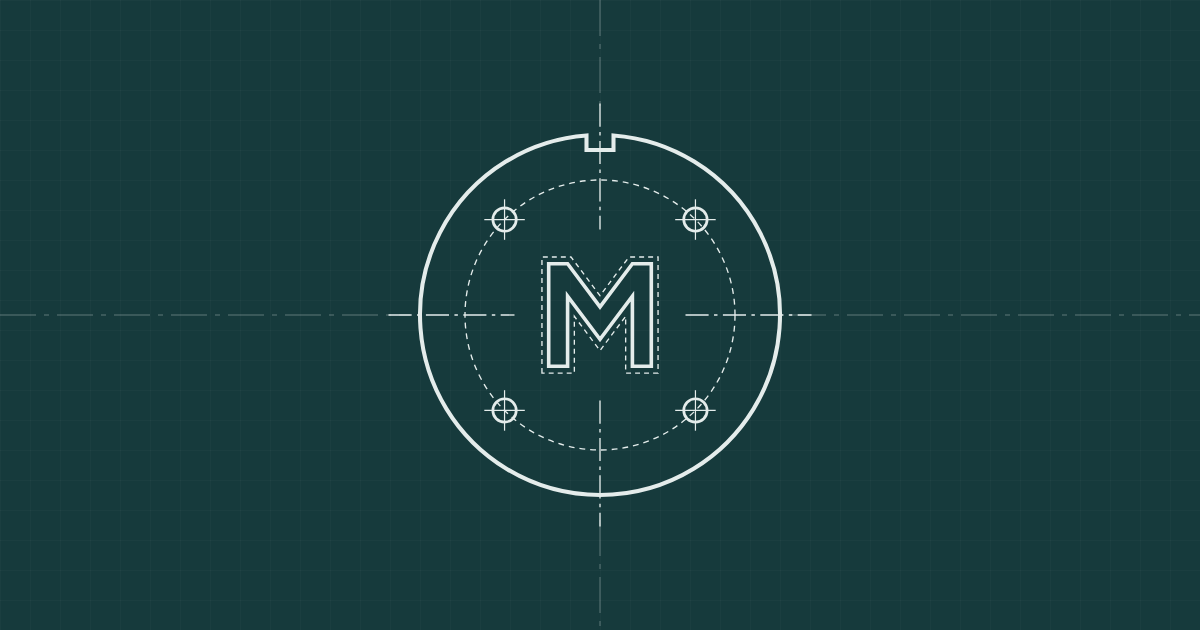
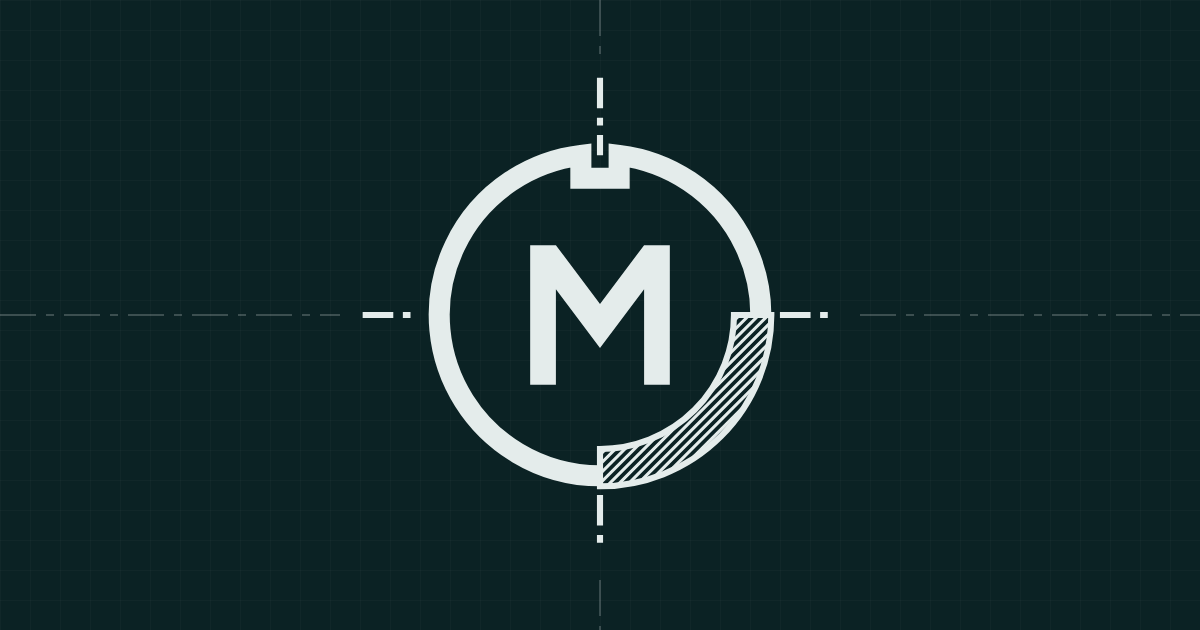
Add files via upload

Changed region(s): [[0.2775, 0.2111, 0.7092, 0.8444], [0.4933, 0.1206, 0.5242, 0.181]]

diff --git a/index.html b/index.html
@@ -87,7 +87,7 @@
     border-bottom: 1px solid var(--dk-rule); }
   .site-head .wrap { display: flex; align-items: center; justify-content: space-between; gap: 1rem; min-height: 4.25rem; }
   .brand { display: inline-flex; align-items: center; gap: 0.7rem; color: inherit; text-decoration: none; white-space: nowrap; }
-  .brand svg { width: 2rem; height: 2rem; flex: none; }
+  .brand svg { width: 2.6rem; height: 2.6rem; flex: none; margin-left: -0.3rem; overflow: visible; }
   .brand span { font-size: 0.95rem; letter-spacing: 0.1em; font-weight: 500; }
   .brand span b { font-weight: 300; }
   .nav { display: flex; align-items: center; gap: 1.9rem; }
@@ -532,7 +532,7 @@
   .contact .wrap { position: relative; z-index: 1; }
   .contact h2 { color: #F2F5F4; }
   .contact p { color: var(--dk-muted); font-size: 1.1rem; font-weight: 300; }
-  .band-mark { position: absolute; right: -6rem; top: 50%; transform: translateY(-50%); width: min(38rem, 70vw); color: var(--dk-fg); opacity: 0.1; pointer-events: none; }
+  .band-mark { position: absolute; right: -5rem; top: 50%; transform: translateY(-50%); width: min(40rem, 75vw); color: var(--dk-fg); opacity: 0.12; pointer-events: none; overflow: visible; }
   .mail { display: inline-block; margin: 0.75rem 0 2.25rem; color: var(--dk-fg); font-weight: 300; font-size: clamp(1.35rem, 0.7rem + 3vw, 3rem); line-height: 1.15; letter-spacing: -0.02em;
     overflow-wrap: anywhere; text-decoration: none; border-bottom: 1px solid var(--dk-rule); padding-bottom: 0.3rem; }
   .mail:hover { border-bottom-color: var(--manx); }
@@ -544,7 +544,7 @@
   .foot-grid > div:first-child { grid-column: 1 / -1; max-width: 24rem; }
   @media (min-width: 62rem) { .foot-grid { grid-template-columns: 1.4fr 1fr 1fr 1fr; gap: 2rem; } .foot-grid > div:first-child { grid-column: auto; } }
   .foot-brand { display: flex; align-items: center; gap: 0.6rem; color: var(--dk-fg); letter-spacing: 0.06em; font-size: 0.95rem; margin-bottom: 0.7rem; }
-  .foot-brand svg { width: 1.7rem; height: 1.7rem; flex: none; }
+  .foot-brand svg { width: 2.2rem; height: 2.2rem; flex: none; margin-left: -0.25rem; overflow: visible; }
   .foot-brand b { font-weight: 300; }
   .foot-grid h2 { font-size: 0.95rem; font-weight: 500; color: var(--dk-fg); margin: 0 0 0.75rem; letter-spacing: 0; line-height: 1.4; }
   .foot-grid ul { list-style: none; margin: 0; padding: 0; display: grid; gap: 0.5rem; }
@@ -571,7 +571,7 @@
 
 <header class="site-head">
   <div class="wrap">
-    <a class="brand" href="/" aria-label="Mannin Systems, home"><svg viewBox="0 0 100 100" aria-hidden="true"><path d="M55 8.299 A42 42 0 1 1 45 8.299 L45 14.299 L55 14.299 Z" fill="none" stroke="currentColor" stroke-width="5.5" stroke-linejoin="miter"></path><g transform="translate(26 26) scale(.48)"><path d="M12 88 L12 12 L26 12 L50 44 L74 12 L88 12 L88 88 L74 88 L74 36 L50 68 L26 36 L26 88 Z" fill="currentColor"></path></g></svg><span>MANNIN <b>SYSTEMS</b></span></a>
+    <a class="brand" href="/" aria-label="Mannin Systems, home"><svg viewBox="-14 -14 128 128" aria-hidden="true"><path d="M55 8.299 A42 42 0 1 1 45 8.299 L45 14.299 L55 14.299 Z" fill="none" stroke="currentColor" stroke-width="5.5" stroke-linejoin="miter"/><g transform="translate(26 26) scale(.48)"><path d="M12 88 L12 12 L26 12 L50 44 L74 12 L88 12 L88 88 L74 88 L74 36 L50 68 L26 36 L26 88 Z" fill="currentColor"/></g><path d="M-12 50 H3 M97 50 H112 M50 97 V112 M50 -12 V8.3" fill="none" stroke="currentColor" stroke-width="2.2" stroke-dasharray="8 2.5 2 2.5"/></svg><span>MANNIN <b>SYSTEMS</b></span></a>
     <nav class="nav" aria-label="Main"><a class="hide-sm" href="/#product">Product</a><a class="hide-sm" href="/#who">Who it's for</a><a class="hide-sm" href="/#pricing">Pricing</a><a class="hide-sm" href="/demo">Demo</a><a class="pill" href="#contact">Get in touch</a></nav>
   </div>
 </header>
@@ -1064,7 +1064,7 @@
   </section>
 
   <section class="section contact" id="contact">
-    <svg class="band-mark" viewBox="0 0 100 100" aria-hidden="true"><defs><pattern id="hband" width="2" height="2" patternUnits="userSpaceOnUse" patternTransform="rotate(45)"><line x1="0" y1="0" x2="0" y2="2" stroke="currentColor" stroke-width="0.3"></line></pattern></defs><path d="M83.50 50.00 L90.00 50.00 A40 40 0 0 1 50.00 90.00 L50.00 83.50 A33.5 33.5 0 0 0 83.50 50.00 Z" fill="url(#hband)" stroke="currentColor" stroke-width="0.3"></path><line x1="3" y1="50" x2="31" y2="50" stroke="currentColor" stroke-width="0.3" stroke-dasharray="5.14 1.20 0.77 1.20"></line><line x1="50" y1="3" x2="50" y2="31" stroke="currentColor" stroke-width="0.3" stroke-dasharray="5.14 1.20 0.77 1.20"></line><line x1="69" y1="50" x2="97" y2="50" stroke="currentColor" stroke-width="0.3" stroke-dasharray="5.14 1.20 0.77 1.20"></line><line x1="50" y1="69" x2="50" y2="97" stroke="currentColor" stroke-width="0.3" stroke-dasharray="5.14 1.20 0.77 1.20"></line><path d="M53 10.113 A40 40 0 1 1 47 10.113 L47 13.313 L53 13.313 Z" fill="none" stroke="currentColor" stroke-width="0.9" stroke-linejoin="miter"></path><circle cx="50" cy="50" r="33.5" fill="none" stroke="currentColor" stroke-width="0.4"></circle><circle cx="71.21" cy="71.21" r="2.6" fill="none" stroke="currentColor" stroke-width="0.6"></circle><line x1="66.71" y1="71.21" x2="75.71" y2="71.21" stroke="currentColor" stroke-width="0.27"></line><line x1="71.21" y1="66.71" x2="71.21" y2="75.71" stroke="currentColor" stroke-width="0.27"></line><circle cx="28.79" cy="71.21" r="2.6" fill="none" stroke="currentColor" stroke-width="0.6"></circle><line x1="24.29" y1="71.21" x2="33.29" y2="71.21" stroke="currentColor" stroke-width="0.27"></line><line x1="28.79" y1="66.71" x2="28.79" y2="75.71" stroke="currentColor" stroke-width="0.27"></line><circle cx="28.79" cy="28.79" r="2.6" fill="none" stroke="currentColor" stroke-width="0.6"></circle><line x1="24.29" y1="28.79" x2="33.29" y2="28.79" stroke="currentColor" stroke-width="0.27"></line><line x1="28.79" y1="24.29" x2="28.79" y2="33.29" stroke="currentColor" stroke-width="0.27"></line><circle cx="71.21" cy="28.79" r="2.6" fill="none" stroke="currentColor" stroke-width="0.6"></circle><line x1="66.71" y1="28.79" x2="75.71" y2="28.79" stroke="currentColor" stroke-width="0.27"></line><line x1="71.21" y1="24.29" x2="71.21" y2="33.29" stroke="currentColor" stroke-width="0.27"></line><g transform="translate(35.00 35.00) scale(0.3)"><path d="M12 88 L12 12 L26 12 L50 44 L74 12 L88 12 L88 88 L74 88 L74 36 L50 68 L26 36 L26 88 Z" fill="none" stroke="currentColor" stroke-width="2.67" stroke-linejoin="miter"></path></g><path d="M37.10 62.90 L37.10 37.10 L43.55 37.10 L50.00 45.70 L56.45 37.10 L62.90 37.10 L62.90 62.90 L55.70 62.90 L55.70 50.30 L50.00 57.90 L44.30 50.30 L44.30 62.90 Z" fill="none" stroke="currentColor" stroke-width="0.30" stroke-dasharray="1.1 0.9" stroke-linejoin="miter"></path></svg>
+    <svg class="band-mark" viewBox="-14 -14 128 128" aria-hidden="true"><defs><mask id="bmm" maskUnits="userSpaceOnUse" x="-20" y="-20" width="140" height="140"><rect x="-20" y="-20" width="140" height="140" fill="white"/><path d="M50 50 H110 V110 H50 Z" fill="black"/></mask><clipPath id="bmc"><path d="M94.75 50 A44.75 44.75 0 0 1 50 94.75 L50 85 A35 35 0 0 0 85 50 Z"/></clipPath></defs><path clip-path="url(#bmc)" stroke="currentColor" stroke-width="0.8" d="M114.0 -20 L-26.0 120 M116.5 -20 L-23.5 120 M119.0 -20 L-21.0 120 M121.5 -20 L-18.5 120 M124.0 -20 L-16.0 120 M126.5 -20 L-13.5 120 M129.0 -20 L-11.0 120 M131.5 -20 L-8.5 120 M134.0 -20 L-6.0 120 M136.5 -20 L-3.5 120 M139.0 -20 L-1.0 120 M141.5 -20 L1.5 120 M144.0 -20 L4.0 120 M146.5 -20 L6.5 120 M149.0 -20 L9.0 120 M151.5 -20 L11.5 120 M154.0 -20 L14.0 120 M156.5 -20 L16.5 120 M159.0 -20 L19.0 120 M161.5 -20 L21.5 120 M164.0 -20 L24.0 120 M166.5 -20 L26.5 120 M169.0 -20 L29.0 120 M171.5 -20 L31.5 120 M174.0 -20 L34.0 120 M176.5 -20 L36.5 120 M179.0 -20 L39.0 120 M181.5 -20 L41.5 120 M184.0 -20 L44.0 120 M186.5 -20 L46.5 120 M189.0 -20 L49.0 120 M191.5 -20 L51.5 120 M194.0 -20 L54.0 120 M196.5 -20 L56.5 120 M199.0 -20 L59.0 120 M201.5 -20 L61.5 120 M204.0 -20 L64.0 120 M206.5 -20 L66.5 120 M209.0 -20 L69.0 120 M211.5 -20 L71.5 120 M214.0 -20 L74.0 120"/><path d="M94.75 50 A44.75 44.75 0 0 1 50 94.75 L50 85 A35 35 0 0 0 85 50 Z" fill="none" stroke="currentColor" stroke-width="1.6"/><g mask="url(#bmm)"><path d="M55 8.299 A42 42 0 1 1 45 8.299 L45 14.299 L55 14.299 Z" fill="none" stroke="currentColor" stroke-width="5.5" stroke-linejoin="miter"/></g><g transform="translate(26 26) scale(.48)"><path d="M12 88 L12 12 L26 12 L50 44 L74 12 L88 12 L88 88 L74 88 L74 36 L50 68 L26 36 L26 88 Z" fill="currentColor"/></g><path d="M-12 50 H3 M97 50 H112 M50 97 V112 M50 -12 V8.3" fill="none" stroke="currentColor" stroke-width="1.6" stroke-dasharray="8 2.5 2 2.5"/></svg>
     <div class="wrap">
       <h2>Tell us what you're running on now</h2>
       <p>A few lines about what you make and how you plan production today is plenty to start with, or just ask for a free health check. You'll get a personal reply.</p>
@@ -1078,7 +1078,7 @@
   <div class="wrap">
     <div class="foot-grid">
       <div>
-        <p class="foot-brand"><svg viewBox="0 0 100 100" aria-hidden="true"><path d="M55 8.299 A42 42 0 1 1 45 8.299 L45 14.299 L55 14.299 Z" fill="none" stroke="currentColor" stroke-width="5.5" stroke-linejoin="miter"></path><g transform="translate(26 26) scale(.48)"><path d="M12 88 L12 12 L26 12 L50 44 L74 12 L88 12 L88 88 L74 88 L74 36 L50 68 L26 36 L26 88 Z" fill="currentColor"></path></g></svg><span>MANNIN <b>SYSTEMS</b></span></p>
+        <p class="foot-brand"><svg viewBox="-14 -14 128 128" aria-hidden="true"><path d="M55 8.299 A42 42 0 1 1 45 8.299 L45 14.299 L55 14.299 Z" fill="none" stroke="currentColor" stroke-width="5.5" stroke-linejoin="miter"/><g transform="translate(26 26) scale(.48)"><path d="M12 88 L12 12 L26 12 L50 44 L74 12 L88 12 L88 88 L74 88 L74 36 L50 68 L26 36 L26 88 Z" fill="currentColor"/></g><path d="M-12 50 H3 M97 50 H112 M50 97 V112 M50 -12 V8.3" fill="none" stroke="currentColor" stroke-width="2.2" stroke-dasharray="8 2.5 2 2.5"/></svg><span>MANNIN <b>SYSTEMS</b></span></p>
         <p>Production software for small manufacturers, built in the Isle of Man for firms across the island and the UK.</p>
       </div>
       <nav aria-label="Trades">

diff --git a/extruders.html b/extruders.html
@@ -88,7 +88,7 @@
     border-bottom: 1px solid var(--dk-rule); }
   .site-head .wrap { display: flex; align-items: center; justify-content: space-between; gap: 1rem; min-height: 4.25rem; }
   .brand { display: inline-flex; align-items: center; gap: 0.7rem; color: inherit; text-decoration: none; white-space: nowrap; }
-  .brand svg { width: 2rem; height: 2rem; flex: none; }
+  .brand svg { width: 2.6rem; height: 2.6rem; flex: none; margin-left: -0.3rem; overflow: visible; }
   .brand span { font-size: 0.95rem; letter-spacing: 0.1em; font-weight: 500; }
   .brand span b { font-weight: 300; }
   .nav { display: flex; align-items: center; gap: 1.9rem; }
@@ -533,7 +533,7 @@
   .contact .wrap { position: relative; z-index: 1; }
   .contact h2 { color: #F2F5F4; }
   .contact p { color: var(--dk-muted); font-size: 1.1rem; font-weight: 300; }
-  .band-mark { position: absolute; right: -6rem; top: 50%; transform: translateY(-50%); width: min(38rem, 70vw); color: var(--dk-fg); opacity: 0.1; pointer-events: none; }
+  .band-mark { position: absolute; right: -5rem; top: 50%; transform: translateY(-50%); width: min(40rem, 75vw); color: var(--dk-fg); opacity: 0.12; pointer-events: none; overflow: visible; }
   .mail { display: inline-block; margin: 0.75rem 0 2.25rem; color: var(--dk-fg); font-weight: 300; font-size: clamp(1.35rem, 0.7rem + 3vw, 3rem); line-height: 1.15; letter-spacing: -0.02em;
     overflow-wrap: anywhere; text-decoration: none; border-bottom: 1px solid var(--dk-rule); padding-bottom: 0.3rem; }
   .mail:hover { border-bottom-color: var(--manx); }
@@ -545,7 +545,7 @@
   .foot-grid > div:first-child { grid-column: 1 / -1; max-width: 24rem; }
   @media (min-width: 62rem) { .foot-grid { grid-template-columns: 1.4fr 1fr 1fr 1fr; gap: 2rem; } .foot-grid > div:first-child { grid-column: auto; } }
   .foot-brand { display: flex; align-items: center; gap: 0.6rem; color: var(--dk-fg); letter-spacing: 0.06em; font-size: 0.95rem; margin-bottom: 0.7rem; }
-  .foot-brand svg { width: 1.7rem; height: 1.7rem; flex: none; }
+  .foot-brand svg { width: 2.2rem; height: 2.2rem; flex: none; margin-left: -0.25rem; overflow: visible; }
   .foot-brand b { font-weight: 300; }
   .foot-grid h2 { font-size: 0.95rem; font-weight: 500; color: var(--dk-fg); margin: 0 0 0.75rem; letter-spacing: 0; line-height: 1.4; }
   .foot-grid ul { list-style: none; margin: 0; padding: 0; display: grid; gap: 0.5rem; }
@@ -606,7 +606,7 @@
 
 <header class="site-head">
   <div class="wrap">
-    <a class="brand" href="/" aria-label="Mannin Systems, home"><svg viewBox="0 0 100 100" aria-hidden="true"><path d="M55 8.299 A42 42 0 1 1 45 8.299 L45 14.299 L55 14.299 Z" fill="none" stroke="currentColor" stroke-width="5.5" stroke-linejoin="miter"></path><g transform="translate(26 26) scale(.48)"><path d="M12 88 L12 12 L26 12 L50 44 L74 12 L88 12 L88 88 L74 88 L74 36 L50 68 L26 36 L26 88 Z" fill="currentColor"></path></g></svg><span>MANNIN <b>SYSTEMS</b></span></a>
+    <a class="brand" href="/" aria-label="Mannin Systems, home"><svg viewBox="-14 -14 128 128" aria-hidden="true"><path d="M55 8.299 A42 42 0 1 1 45 8.299 L45 14.299 L55 14.299 Z" fill="none" stroke="currentColor" stroke-width="5.5" stroke-linejoin="miter"/><g transform="translate(26 26) scale(.48)"><path d="M12 88 L12 12 L26 12 L50 44 L74 12 L88 12 L88 88 L74 88 L74 36 L50 68 L26 36 L26 88 Z" fill="currentColor"/></g><path d="M-12 50 H3 M97 50 H112 M50 97 V112 M50 -12 V8.3" fill="none" stroke="currentColor" stroke-width="2.2" stroke-dasharray="8 2.5 2 2.5"/></svg><span>MANNIN <b>SYSTEMS</b></span></a>
     <nav class="nav" aria-label="Main"><a class="hide-sm" href="/#product">Product</a><a class="hide-sm" href="/#who">Who it's for</a><a class="hide-sm" href="/#pricing">Pricing</a><a class="hide-sm" href="/demo">Demo</a><a class="pill" href="#contact">Get in touch</a></nav>
   </div>
 </header>
@@ -708,7 +708,7 @@
   </section>
 
   <section class="section contact" id="contact">
-    <svg class="band-mark" viewBox="0 0 100 100" aria-hidden="true"><defs><pattern id="hband" width="2" height="2" patternUnits="userSpaceOnUse" patternTransform="rotate(45)"><line x1="0" y1="0" x2="0" y2="2" stroke="currentColor" stroke-width="0.3"></line></pattern></defs><path d="M83.50 50.00 L90.00 50.00 A40 40 0 0 1 50.00 90.00 L50.00 83.50 A33.5 33.5 0 0 0 83.50 50.00 Z" fill="url(#hband)" stroke="currentColor" stroke-width="0.3"></path><line x1="3" y1="50" x2="31" y2="50" stroke="currentColor" stroke-width="0.3" stroke-dasharray="5.14 1.20 0.77 1.20"></line><line x1="50" y1="3" x2="50" y2="31" stroke="currentColor" stroke-width="0.3" stroke-dasharray="5.14 1.20 0.77 1.20"></line><line x1="69" y1="50" x2="97" y2="50" stroke="currentColor" stroke-width="0.3" stroke-dasharray="5.14 1.20 0.77 1.20"></line><line x1="50" y1="69" x2="50" y2="97" stroke="currentColor" stroke-width="0.3" stroke-dasharray="5.14 1.20 0.77 1.20"></line><path d="M53 10.113 A40 40 0 1 1 47 10.113 L47 13.313 L53 13.313 Z" fill="none" stroke="currentColor" stroke-width="0.9" stroke-linejoin="miter"></path><circle cx="50" cy="50" r="33.5" fill="none" stroke="currentColor" stroke-width="0.4"></circle><circle cx="71.21" cy="71.21" r="2.6" fill="none" stroke="currentColor" stroke-width="0.6"></circle><line x1="66.71" y1="71.21" x2="75.71" y2="71.21" stroke="currentColor" stroke-width="0.27"></line><line x1="71.21" y1="66.71" x2="71.21" y2="75.71" stroke="currentColor" stroke-width="0.27"></line><circle cx="28.79" cy="71.21" r="2.6" fill="none" stroke="currentColor" stroke-width="0.6"></circle><line x1="24.29" y1="71.21" x2="33.29" y2="71.21" stroke="currentColor" stroke-width="0.27"></line><line x1="28.79" y1="66.71" x2="28.79" y2="75.71" stroke="currentColor" stroke-width="0.27"></line><circle cx="28.79" cy="28.79" r="2.6" fill="none" stroke="currentColor" stroke-width="0.6"></circle><line x1="24.29" y1="28.79" x2="33.29" y2="28.79" stroke="currentColor" stroke-width="0.27"></line><line x1="28.79" y1="24.29" x2="28.79" y2="33.29" stroke="currentColor" stroke-width="0.27"></line><circle cx="71.21" cy="28.79" r="2.6" fill="none" stroke="currentColor" stroke-width="0.6"></circle><line x1="66.71" y1="28.79" x2="75.71" y2="28.79" stroke="currentColor" stroke-width="0.27"></line><line x1="71.21" y1="24.29" x2="71.21" y2="33.29" stroke="currentColor" stroke-width="0.27"></line><g transform="translate(35.00 35.00) scale(0.3)"><path d="M12 88 L12 12 L26 12 L50 44 L74 12 L88 12 L88 88 L74 88 L74 36 L50 68 L26 36 L26 88 Z" fill="none" stroke="currentColor" stroke-width="2.67" stroke-linejoin="miter"></path></g><path d="M37.10 62.90 L37.10 37.10 L43.55 37.10 L50.00 45.70 L56.45 37.10 L62.90 37.10 L62.90 62.90 L55.70 62.90 L55.70 50.30 L50.00 57.90 L44.30 50.30 L44.30 62.90 Z" fill="none" stroke="currentColor" stroke-width="0.30" stroke-dasharray="1.1 0.9" stroke-linejoin="miter"></path></svg>
+    <svg class="band-mark" viewBox="-14 -14 128 128" aria-hidden="true"><defs><mask id="bmm" maskUnits="userSpaceOnUse" x="-20" y="-20" width="140" height="140"><rect x="-20" y="-20" width="140" height="140" fill="white"/><path d="M50 50 H110 V110 H50 Z" fill="black"/></mask><clipPath id="bmc"><path d="M94.75 50 A44.75 44.75 0 0 1 50 94.75 L50 85 A35 35 0 0 0 85 50 Z"/></clipPath></defs><path clip-path="url(#bmc)" stroke="currentColor" stroke-width="0.8" d="M114.0 -20 L-26.0 120 M116.5 -20 L-23.5 120 M119.0 -20 L-21.0 120 M121.5 -20 L-18.5 120 M124.0 -20 L-16.0 120 M126.5 -20 L-13.5 120 M129.0 -20 L-11.0 120 M131.5 -20 L-8.5 120 M134.0 -20 L-6.0 120 M136.5 -20 L-3.5 120 M139.0 -20 L-1.0 120 M141.5 -20 L1.5 120 M144.0 -20 L4.0 120 M146.5 -20 L6.5 120 M149.0 -20 L9.0 120 M151.5 -20 L11.5 120 M154.0 -20 L14.0 120 M156.5 -20 L16.5 120 M159.0 -20 L19.0 120 M161.5 -20 L21.5 120 M164.0 -20 L24.0 120 M166.5 -20 L26.5 120 M169.0 -20 L29.0 120 M171.5 -20 L31.5 120 M174.0 -20 L34.0 120 M176.5 -20 L36.5 120 M179.0 -20 L39.0 120 M181.5 -20 L41.5 120 M184.0 -20 L44.0 120 M186.5 -20 L46.5 120 M189.0 -20 L49.0 120 M191.5 -20 L51.5 120 M194.0 -20 L54.0 120 M196.5 -20 L56.5 120 M199.0 -20 L59.0 120 M201.5 -20 L61.5 120 M204.0 -20 L64.0 120 M206.5 -20 L66.5 120 M209.0 -20 L69.0 120 M211.5 -20 L71.5 120 M214.0 -20 L74.0 120"/><path d="M94.75 50 A44.75 44.75 0 0 1 50 94.75 L50 85 A35 35 0 0 0 85 50 Z" fill="none" stroke="currentColor" stroke-width="1.6"/><g mask="url(#bmm)"><path d="M55 8.299 A42 42 0 1 1 45 8.299 L45 14.299 L55 14.299 Z" fill="none" stroke="currentColor" stroke-width="5.5" stroke-linejoin="miter"/></g><g transform="translate(26 26) scale(.48)"><path d="M12 88 L12 12 L26 12 L50 44 L74 12 L88 12 L88 88 L74 88 L74 36 L50 68 L26 36 L26 88 Z" fill="currentColor"/></g><path d="M-12 50 H3 M97 50 H112 M50 97 V112 M50 -12 V8.3" fill="none" stroke="currentColor" stroke-width="1.6" stroke-dasharray="8 2.5 2 2.5"/></svg>
     <div class="wrap">
       <h2>Tell us what you're running on now</h2>
       <p>A few lines about what you make and how you plan production today is plenty to start with, or just ask for a free health check. You'll get a personal reply.</p>
@@ -722,7 +722,7 @@
   <div class="wrap">
     <div class="foot-grid">
       <div>
-        <p class="foot-brand"><svg viewBox="0 0 100 100" aria-hidden="true"><path d="M55 8.299 A42 42 0 1 1 45 8.299 L45 14.299 L55 14.299 Z" fill="none" stroke="currentColor" stroke-width="5.5" stroke-linejoin="miter"></path><g transform="translate(26 26) scale(.48)"><path d="M12 88 L12 12 L26 12 L50 44 L74 12 L88 12 L88 88 L74 88 L74 36 L50 68 L26 36 L26 88 Z" fill="currentColor"></path></g></svg><span>MANNIN <b>SYSTEMS</b></span></p>
+        <p class="foot-brand"><svg viewBox="-14 -14 128 128" aria-hidden="true"><path d="M55 8.299 A42 42 0 1 1 45 8.299 L45 14.299 L55 14.299 Z" fill="none" stroke="currentColor" stroke-width="5.5" stroke-linejoin="miter"/><g transform="translate(26 26) scale(.48)"><path d="M12 88 L12 12 L26 12 L50 44 L74 12 L88 12 L88 88 L74 88 L74 36 L50 68 L26 36 L26 88 Z" fill="currentColor"/></g><path d="M-12 50 H3 M97 50 H112 M50 97 V112 M50 -12 V8.3" fill="none" stroke="currentColor" stroke-width="2.2" stroke-dasharray="8 2.5 2 2.5"/></svg><span>MANNIN <b>SYSTEMS</b></span></p>
         <p>Production software for small manufacturers, built in the Isle of Man for firms across the island and the UK.</p>
       </div>
       <nav aria-label="Trades">

diff --git a/fabricators.html b/fabricators.html
@@ -88,7 +88,7 @@
     border-bottom: 1px solid var(--dk-rule); }
   .site-head .wrap { display: flex; align-items: center; justify-content: space-between; gap: 1rem; min-height: 4.25rem; }
   .brand { display: inline-flex; align-items: center; gap: 0.7rem; color: inherit; text-decoration: none; white-space: nowrap; }
-  .brand svg { width: 2rem; height: 2rem; flex: none; }
+  .brand svg { width: 2.6rem; height: 2.6rem; flex: none; margin-left: -0.3rem; overflow: visible; }
   .brand span { font-size: 0.95rem; letter-spacing: 0.1em; font-weight: 500; }
   .brand span b { font-weight: 300; }
   .nav { display: flex; align-items: center; gap: 1.9rem; }
@@ -533,7 +533,7 @@
   .contact .wrap { position: relative; z-index: 1; }
   .contact h2 { color: #F2F5F4; }
   .contact p { color: var(--dk-muted); font-size: 1.1rem; font-weight: 300; }
-  .band-mark { position: absolute; right: -6rem; top: 50%; transform: translateY(-50%); width: min(38rem, 70vw); color: var(--dk-fg); opacity: 0.1; pointer-events: none; }
+  .band-mark { position: absolute; right: -5rem; top: 50%; transform: translateY(-50%); width: min(40rem, 75vw); color: var(--dk-fg); opacity: 0.12; pointer-events: none; overflow: visible; }
   .mail { display: inline-block; margin: 0.75rem 0 2.25rem; color: var(--dk-fg); font-weight: 300; font-size: clamp(1.35rem, 0.7rem + 3vw, 3rem); line-height: 1.15; letter-spacing: -0.02em;
     overflow-wrap: anywhere; text-decoration: none; border-bottom: 1px solid var(--dk-rule); padding-bottom: 0.3rem; }
   .mail:hover { border-bottom-color: var(--manx); }
@@ -545,7 +545,7 @@
   .foot-grid > div:first-child { grid-column: 1 / -1; max-width: 24rem; }
   @media (min-width: 62rem) { .foot-grid { grid-template-columns: 1.4fr 1fr 1fr 1fr; gap: 2rem; } .foot-grid > div:first-child { grid-column: auto; } }
   .foot-brand { display: flex; align-items: center; gap: 0.6rem; color: var(--dk-fg); letter-spacing: 0.06em; font-size: 0.95rem; margin-bottom: 0.7rem; }
-  .foot-brand svg { width: 1.7rem; height: 1.7rem; flex: none; }
+  .foot-brand svg { width: 2.2rem; height: 2.2rem; flex: none; margin-left: -0.25rem; overflow: visible; }
   .foot-brand b { font-weight: 300; }
   .foot-grid h2 { font-size: 0.95rem; font-weight: 500; color: var(--dk-fg); margin: 0 0 0.75rem; letter-spacing: 0; line-height: 1.4; }
   .foot-grid ul { list-style: none; margin: 0; padding: 0; display: grid; gap: 0.5rem; }
@@ -606,7 +606,7 @@
 
 <header class="site-head">
   <div class="wrap">
-    <a class="brand" href="/" aria-label="Mannin Systems, home"><svg viewBox="0 0 100 100" aria-hidden="true"><path d="M55 8.299 A42 42 0 1 1 45 8.299 L45 14.299 L55 14.299 Z" fill="none" stroke="currentColor" stroke-width="5.5" stroke-linejoin="miter"></path><g transform="translate(26 26) scale(.48)"><path d="M12 88 L12 12 L26 12 L50 44 L74 12 L88 12 L88 88 L74 88 L74 36 L50 68 L26 36 L26 88 Z" fill="currentColor"></path></g></svg><span>MANNIN <b>SYSTEMS</b></span></a>
+    <a class="brand" href="/" aria-label="Mannin Systems, home"><svg viewBox="-14 -14 128 128" aria-hidden="true"><path d="M55 8.299 A42 42 0 1 1 45 8.299 L45 14.299 L55 14.299 Z" fill="none" stroke="currentColor" stroke-width="5.5" stroke-linejoin="miter"/><g transform="translate(26 26) scale(.48)"><path d="M12 88 L12 12 L26 12 L50 44 L74 12 L88 12 L88 88 L74 88 L74 36 L50 68 L26 36 L26 88 Z" fill="currentColor"/></g><path d="M-12 50 H3 M97 50 H112 M50 97 V112 M50 -12 V8.3" fill="none" stroke="currentColor" stroke-width="2.2" stroke-dasharray="8 2.5 2 2.5"/></svg><span>MANNIN <b>SYSTEMS</b></span></a>
     <nav class="nav" aria-label="Main"><a class="hide-sm" href="/#product">Product</a><a class="hide-sm" href="/#who">Who it's for</a><a class="hide-sm" href="/#pricing">Pricing</a><a class="hide-sm" href="/demo">Demo</a><a class="pill" href="#contact">Get in touch</a></nav>
   </div>
 </header>
@@ -715,7 +715,7 @@
   </section>
 
   <section class="section contact" id="contact">
-    <svg class="band-mark" viewBox="0 0 100 100" aria-hidden="true"><defs><pattern id="hband" width="2" height="2" patternUnits="userSpaceOnUse" patternTransform="rotate(45)"><line x1="0" y1="0" x2="0" y2="2" stroke="currentColor" stroke-width="0.3"></line></pattern></defs><path d="M83.50 50.00 L90.00 50.00 A40 40 0 0 1 50.00 90.00 L50.00 83.50 A33.5 33.5 0 0 0 83.50 50.00 Z" fill="url(#hband)" stroke="currentColor" stroke-width="0.3"></path><line x1="3" y1="50" x2="31" y2="50" stroke="currentColor" stroke-width="0.3" stroke-dasharray="5.14 1.20 0.77 1.20"></line><line x1="50" y1="3" x2="50" y2="31" stroke="currentColor" stroke-width="0.3" stroke-dasharray="5.14 1.20 0.77 1.20"></line><line x1="69" y1="50" x2="97" y2="50" stroke="currentColor" stroke-width="0.3" stroke-dasharray="5.14 1.20 0.77 1.20"></line><line x1="50" y1="69" x2="50" y2="97" stroke="currentColor" stroke-width="0.3" stroke-dasharray="5.14 1.20 0.77 1.20"></line><path d="M53 10.113 A40 40 0 1 1 47 10.113 L47 13.313 L53 13.313 Z" fill="none" stroke="currentColor" stroke-width="0.9" stroke-linejoin="miter"></path><circle cx="50" cy="50" r="33.5" fill="none" stroke="currentColor" stroke-width="0.4"></circle><circle cx="71.21" cy="71.21" r="2.6" fill="none" stroke="currentColor" stroke-width="0.6"></circle><line x1="66.71" y1="71.21" x2="75.71" y2="71.21" stroke="currentColor" stroke-width="0.27"></line><line x1="71.21" y1="66.71" x2="71.21" y2="75.71" stroke="currentColor" stroke-width="0.27"></line><circle cx="28.79" cy="71.21" r="2.6" fill="none" stroke="currentColor" stroke-width="0.6"></circle><line x1="24.29" y1="71.21" x2="33.29" y2="71.21" stroke="currentColor" stroke-width="0.27"></line><line x1="28.79" y1="66.71" x2="28.79" y2="75.71" stroke="currentColor" stroke-width="0.27"></line><circle cx="28.79" cy="28.79" r="2.6" fill="none" stroke="currentColor" stroke-width="0.6"></circle><line x1="24.29" y1="28.79" x2="33.29" y2="28.79" stroke="currentColor" stroke-width="0.27"></line><line x1="28.79" y1="24.29" x2="28.79" y2="33.29" stroke="currentColor" stroke-width="0.27"></line><circle cx="71.21" cy="28.79" r="2.6" fill="none" stroke="currentColor" stroke-width="0.6"></circle><line x1="66.71" y1="28.79" x2="75.71" y2="28.79" stroke="currentColor" stroke-width="0.27"></line><line x1="71.21" y1="24.29" x2="71.21" y2="33.29" stroke="currentColor" stroke-width="0.27"></line><g transform="translate(35.00 35.00) scale(0.3)"><path d="M12 88 L12 12 L26 12 L50 44 L74 12 L88 12 L88 88 L74 88 L74 36 L50 68 L26 36 L26 88 Z" fill="none" stroke="currentColor" stroke-width="2.67" stroke-linejoin="miter"></path></g><path d="M37.10 62.90 L37.10 37.10 L43.55 37.10 L50.00 45.70 L56.45 37.10 L62.90 37.10 L62.90 62.90 L55.70 62.90 L55.70 50.30 L50.00 57.90 L44.30 50.30 L44.30 62.90 Z" fill="none" stroke="currentColor" stroke-width="0.30" stroke-dasharray="1.1 0.9" stroke-linejoin="miter"></path></svg>
+    <svg class="band-mark" viewBox="-14 -14 128 128" aria-hidden="true"><defs><mask id="bmm" maskUnits="userSpaceOnUse" x="-20" y="-20" width="140" height="140"><rect x="-20" y="-20" width="140" height="140" fill="white"/><path d="M50 50 H110 V110 H50 Z" fill="black"/></mask><clipPath id="bmc"><path d="M94.75 50 A44.75 44.75 0 0 1 50 94.75 L50 85 A35 35 0 0 0 85 50 Z"/></clipPath></defs><path clip-path="url(#bmc)" stroke="currentColor" stroke-width="0.8" d="M114.0 -20 L-26.0 120 M116.5 -20 L-23.5 120 M119.0 -20 L-21.0 120 M121.5 -20 L-18.5 120 M124.0 -20 L-16.0 120 M126.5 -20 L-13.5 120 M129.0 -20 L-11.0 120 M131.5 -20 L-8.5 120 M134.0 -20 L-6.0 120 M136.5 -20 L-3.5 120 M139.0 -20 L-1.0 120 M141.5 -20 L1.5 120 M144.0 -20 L4.0 120 M146.5 -20 L6.5 120 M149.0 -20 L9.0 120 M151.5 -20 L11.5 120 M154.0 -20 L14.0 120 M156.5 -20 L16.5 120 M159.0 -20 L19.0 120 M161.5 -20 L21.5 120 M164.0 -20 L24.0 120 M166.5 -20 L26.5 120 M169.0 -20 L29.0 120 M171.5 -20 L31.5 120 M174.0 -20 L34.0 120 M176.5 -20 L36.5 120 M179.0 -20 L39.0 120 M181.5 -20 L41.5 120 M184.0 -20 L44.0 120 M186.5 -20 L46.5 120 M189.0 -20 L49.0 120 M191.5 -20 L51.5 120 M194.0 -20 L54.0 120 M196.5 -20 L56.5 120 M199.0 -20 L59.0 120 M201.5 -20 L61.5 120 M204.0 -20 L64.0 120 M206.5 -20 L66.5 120 M209.0 -20 L69.0 120 M211.5 -20 L71.5 120 M214.0 -20 L74.0 120"/><path d="M94.75 50 A44.75 44.75 0 0 1 50 94.75 L50 85 A35 35 0 0 0 85 50 Z" fill="none" stroke="currentColor" stroke-width="1.6"/><g mask="url(#bmm)"><path d="M55 8.299 A42 42 0 1 1 45 8.299 L45 14.299 L55 14.299 Z" fill="none" stroke="currentColor" stroke-width="5.5" stroke-linejoin="miter"/></g><g transform="translate(26 26) scale(.48)"><path d="M12 88 L12 12 L26 12 L50 44 L74 12 L88 12 L88 88 L74 88 L74 36 L50 68 L26 36 L26 88 Z" fill="currentColor"/></g><path d="M-12 50 H3 M97 50 H112 M50 97 V112 M50 -12 V8.3" fill="none" stroke="currentColor" stroke-width="1.6" stroke-dasharray="8 2.5 2 2.5"/></svg>
     <div class="wrap">
       <h2>Tell us what you're running on now</h2>
       <p>A few lines about what you make and how you plan production today is plenty to start with, or just ask for a free health check. You'll get a personal reply.</p>
@@ -729,7 +729,7 @@
   <div class="wrap">
     <div class="foot-grid">
       <div>
-        <p class="foot-brand"><svg viewBox="0 0 100 100" aria-hidden="true"><path d="M55 8.299 A42 42 0 1 1 45 8.299 L45 14.299 L55 14.299 Z" fill="none" stroke="currentColor" stroke-width="5.5" stroke-linejoin="miter"></path><g transform="translate(26 26) scale(.48)"><path d="M12 88 L12 12 L26 12 L50 44 L74 12 L88 12 L88 88 L74 88 L74 36 L50 68 L26 36 L26 88 Z" fill="currentColor"></path></g></svg><span>MANNIN <b>SYSTEMS</b></span></p>
+        <p class="foot-brand"><svg viewBox="-14 -14 128 128" aria-hidden="true"><path d="M55 8.299 A42 42 0 1 1 45 8.299 L45 14.299 L55 14.299 Z" fill="none" stroke="currentColor" stroke-width="5.5" stroke-linejoin="miter"/><g transform="translate(26 26) scale(.48)"><path d="M12 88 L12 12 L26 12 L50 44 L74 12 L88 12 L88 88 L74 88 L74 36 L50 68 L26 36 L26 88 Z" fill="currentColor"/></g><path d="M-12 50 H3 M97 50 H112 M50 97 V112 M50 -12 V8.3" fill="none" stroke="currentColor" stroke-width="2.2" stroke-dasharray="8 2.5 2 2.5"/></svg><span>MANNIN <b>SYSTEMS</b></span></p>
         <p>Production software for small manufacturers, built in the Isle of Man for firms across the island and the UK.</p>
       </div>
       <nav aria-label="Trades">

diff --git a/light-engineering.html b/light-engineering.html
@@ -88,7 +88,7 @@
     border-bottom: 1px solid var(--dk-rule); }
   .site-head .wrap { display: flex; align-items: center; justify-content: space-between; gap: 1rem; min-height: 4.25rem; }
   .brand { display: inline-flex; align-items: center; gap: 0.7rem; color: inherit; text-decoration: none; white-space: nowrap; }
-  .brand svg { width: 2rem; height: 2rem; flex: none; }
+  .brand svg { width: 2.6rem; height: 2.6rem; flex: none; margin-left: -0.3rem; overflow: visible; }
   .brand span { font-size: 0.95rem; letter-spacing: 0.1em; font-weight: 500; }
   .brand span b { font-weight: 300; }
   .nav { display: flex; align-items: center; gap: 1.9rem; }
@@ -533,7 +533,7 @@
   .contact .wrap { position: relative; z-index: 1; }
   .contact h2 { color: #F2F5F4; }
   .contact p { color: var(--dk-muted); font-size: 1.1rem; font-weight: 300; }
-  .band-mark { position: absolute; right: -6rem; top: 50%; transform: translateY(-50%); width: min(38rem, 70vw); color: var(--dk-fg); opacity: 0.1; pointer-events: none; }
+  .band-mark { position: absolute; right: -5rem; top: 50%; transform: translateY(-50%); width: min(40rem, 75vw); color: var(--dk-fg); opacity: 0.12; pointer-events: none; overflow: visible; }
   .mail { display: inline-block; margin: 0.75rem 0 2.25rem; color: var(--dk-fg); font-weight: 300; font-size: clamp(1.35rem, 0.7rem + 3vw, 3rem); line-height: 1.15; letter-spacing: -0.02em;
     overflow-wrap: anywhere; text-decoration: none; border-bottom: 1px solid var(--dk-rule); padding-bottom: 0.3rem; }
   .mail:hover { border-bottom-color: var(--manx); }
@@ -545,7 +545,7 @@
   .foot-grid > div:first-child { grid-column: 1 / -1; max-width: 24rem; }
   @media (min-width: 62rem) { .foot-grid { grid-template-columns: 1.4fr 1fr 1fr 1fr; gap: 2rem; } .foot-grid > div:first-child { grid-column: auto; } }
   .foot-brand { display: flex; align-items: center; gap: 0.6rem; color: var(--dk-fg); letter-spacing: 0.06em; font-size: 0.95rem; margin-bottom: 0.7rem; }
-  .foot-brand svg { width: 1.7rem; height: 1.7rem; flex: none; }
+  .foot-brand svg { width: 2.2rem; height: 2.2rem; flex: none; margin-left: -0.25rem; overflow: visible; }
   .foot-brand b { font-weight: 300; }
   .foot-grid h2 { font-size: 0.95rem; font-weight: 500; color: var(--dk-fg); margin: 0 0 0.75rem; letter-spacing: 0; line-height: 1.4; }
   .foot-grid ul { list-style: none; margin: 0; padding: 0; display: grid; gap: 0.5rem; }
@@ -606,7 +606,7 @@
 
 <header class="site-head">
   <div class="wrap">
-    <a class="brand" href="/" aria-label="Mannin Systems, home"><svg viewBox="0 0 100 100" aria-hidden="true"><path d="M55 8.299 A42 42 0 1 1 45 8.299 L45 14.299 L55 14.299 Z" fill="none" stroke="currentColor" stroke-width="5.5" stroke-linejoin="miter"></path><g transform="translate(26 26) scale(.48)"><path d="M12 88 L12 12 L26 12 L50 44 L74 12 L88 12 L88 88 L74 88 L74 36 L50 68 L26 36 L26 88 Z" fill="currentColor"></path></g></svg><span>MANNIN <b>SYSTEMS</b></span></a>
+    <a class="brand" href="/" aria-label="Mannin Systems, home"><svg viewBox="-14 -14 128 128" aria-hidden="true"><path d="M55 8.299 A42 42 0 1 1 45 8.299 L45 14.299 L55 14.299 Z" fill="none" stroke="currentColor" stroke-width="5.5" stroke-linejoin="miter"/><g transform="translate(26 26) scale(.48)"><path d="M12 88 L12 12 L26 12 L50 44 L74 12 L88 12 L88 88 L74 88 L74 36 L50 68 L26 36 L26 88 Z" fill="currentColor"/></g><path d="M-12 50 H3 M97 50 H112 M50 97 V112 M50 -12 V8.3" fill="none" stroke="currentColor" stroke-width="2.2" stroke-dasharray="8 2.5 2 2.5"/></svg><span>MANNIN <b>SYSTEMS</b></span></a>
     <nav class="nav" aria-label="Main"><a class="hide-sm" href="/#product">Product</a><a class="hide-sm" href="/#who">Who it's for</a><a class="hide-sm" href="/#pricing">Pricing</a><a class="hide-sm" href="/demo">Demo</a><a class="pill" href="#contact">Get in touch</a></nav>
   </div>
 </header>
@@ -706,7 +706,7 @@
   </section>
 
   <section class="section contact" id="contact">
-    <svg class="band-mark" viewBox="0 0 100 100" aria-hidden="true"><defs><pattern id="hband" width="2" height="2" patternUnits="userSpaceOnUse" patternTransform="rotate(45)"><line x1="0" y1="0" x2="0" y2="2" stroke="currentColor" stroke-width="0.3"></line></pattern></defs><path d="M83.50 50.00 L90.00 50.00 A40 40 0 0 1 50.00 90.00 L50.00 83.50 A33.5 33.5 0 0 0 83.50 50.00 Z" fill="url(#hband)" stroke="currentColor" stroke-width="0.3"></path><line x1="3" y1="50" x2="31" y2="50" stroke="currentColor" stroke-width="0.3" stroke-dasharray="5.14 1.20 0.77 1.20"></line><line x1="50" y1="3" x2="50" y2="31" stroke="currentColor" stroke-width="0.3" stroke-dasharray="5.14 1.20 0.77 1.20"></line><line x1="69" y1="50" x2="97" y2="50" stroke="currentColor" stroke-width="0.3" stroke-dasharray="5.14 1.20 0.77 1.20"></line><line x1="50" y1="69" x2="50" y2="97" stroke="currentColor" stroke-width="0.3" stroke-dasharray="5.14 1.20 0.77 1.20"></line><path d="M53 10.113 A40 40 0 1 1 47 10.113 L47 13.313 L53 13.313 Z" fill="none" stroke="currentColor" stroke-width="0.9" stroke-linejoin="miter"></path><circle cx="50" cy="50" r="33.5" fill="none" stroke="currentColor" stroke-width="0.4"></circle><circle cx="71.21" cy="71.21" r="2.6" fill="none" stroke="currentColor" stroke-width="0.6"></circle><line x1="66.71" y1="71.21" x2="75.71" y2="71.21" stroke="currentColor" stroke-width="0.27"></line><line x1="71.21" y1="66.71" x2="71.21" y2="75.71" stroke="currentColor" stroke-width="0.27"></line><circle cx="28.79" cy="71.21" r="2.6" fill="none" stroke="currentColor" stroke-width="0.6"></circle><line x1="24.29" y1="71.21" x2="33.29" y2="71.21" stroke="currentColor" stroke-width="0.27"></line><line x1="28.79" y1="66.71" x2="28.79" y2="75.71" stroke="currentColor" stroke-width="0.27"></line><circle cx="28.79" cy="28.79" r="2.6" fill="none" stroke="currentColor" stroke-width="0.6"></circle><line x1="24.29" y1="28.79" x2="33.29" y2="28.79" stroke="currentColor" stroke-width="0.27"></line><line x1="28.79" y1="24.29" x2="28.79" y2="33.29" stroke="currentColor" stroke-width="0.27"></line><circle cx="71.21" cy="28.79" r="2.6" fill="none" stroke="currentColor" stroke-width="0.6"></circle><line x1="66.71" y1="28.79" x2="75.71" y2="28.79" stroke="currentColor" stroke-width="0.27"></line><line x1="71.21" y1="24.29" x2="71.21" y2="33.29" stroke="currentColor" stroke-width="0.27"></line><g transform="translate(35.00 35.00) scale(0.3)"><path d="M12 88 L12 12 L26 12 L50 44 L74 12 L88 12 L88 88 L74 88 L74 36 L50 68 L26 36 L26 88 Z" fill="none" stroke="currentColor" stroke-width="2.67" stroke-linejoin="miter"></path></g><path d="M37.10 62.90 L37.10 37.10 L43.55 37.10 L50.00 45.70 L56.45 37.10 L62.90 37.10 L62.90 62.90 L55.70 62.90 L55.70 50.30 L50.00 57.90 L44.30 50.30 L44.30 62.90 Z" fill="none" stroke="currentColor" stroke-width="0.30" stroke-dasharray="1.1 0.9" stroke-linejoin="miter"></path></svg>
+    <svg class="band-mark" viewBox="-14 -14 128 128" aria-hidden="true"><defs><mask id="bmm" maskUnits="userSpaceOnUse" x="-20" y="-20" width="140" height="140"><rect x="-20" y="-20" width="140" height="140" fill="white"/><path d="M50 50 H110 V110 H50 Z" fill="black"/></mask><clipPath id="bmc"><path d="M94.75 50 A44.75 44.75 0 0 1 50 94.75 L50 85 A35 35 0 0 0 85 50 Z"/></clipPath></defs><path clip-path="url(#bmc)" stroke="currentColor" stroke-width="0.8" d="M114.0 -20 L-26.0 120 M116.5 -20 L-23.5 120 M119.0 -20 L-21.0 120 M121.5 -20 L-18.5 120 M124.0 -20 L-16.0 120 M126.5 -20 L-13.5 120 M129.0 -20 L-11.0 120 M131.5 -20 L-8.5 120 M134.0 -20 L-6.0 120 M136.5 -20 L-3.5 120 M139.0 -20 L-1.0 120 M141.5 -20 L1.5 120 M144.0 -20 L4.0 120 M146.5 -20 L6.5 120 M149.0 -20 L9.0 120 M151.5 -20 L11.5 120 M154.0 -20 L14.0 120 M156.5 -20 L16.5 120 M159.0 -20 L19.0 120 M161.5 -20 L21.5 120 M164.0 -20 L24.0 120 M166.5 -20 L26.5 120 M169.0 -20 L29.0 120 M171.5 -20 L31.5 120 M174.0 -20 L34.0 120 M176.5 -20 L36.5 120 M179.0 -20 L39.0 120 M181.5 -20 L41.5 120 M184.0 -20 L44.0 120 M186.5 -20 L46.5 120 M189.0 -20 L49.0 120 M191.5 -20 L51.5 120 M194.0 -20 L54.0 120 M196.5 -20 L56.5 120 M199.0 -20 L59.0 120 M201.5 -20 L61.5 120 M204.0 -20 L64.0 120 M206.5 -20 L66.5 120 M209.0 -20 L69.0 120 M211.5 -20 L71.5 120 M214.0 -20 L74.0 120"/><path d="M94.75 50 A44.75 44.75 0 0 1 50 94.75 L50 85 A35 35 0 0 0 85 50 Z" fill="none" stroke="currentColor" stroke-width="1.6"/><g mask="url(#bmm)"><path d="M55 8.299 A42 42 0 1 1 45 8.299 L45 14.299 L55 14.299 Z" fill="none" stroke="currentColor" stroke-width="5.5" stroke-linejoin="miter"/></g><g transform="translate(26 26) scale(.48)"><path d="M12 88 L12 12 L26 12 L50 44 L74 12 L88 12 L88 88 L74 88 L74 36 L50 68 L26 36 L26 88 Z" fill="currentColor"/></g><path d="M-12 50 H3 M97 50 H112 M50 97 V112 M50 -12 V8.3" fill="none" stroke="currentColor" stroke-width="1.6" stroke-dasharray="8 2.5 2 2.5"/></svg>
     <div class="wrap">
       <h2>Tell us what you're running on now</h2>
       <p>A few lines about what you make and how you plan production today is plenty to start with, or just ask for a free health check. You'll get a personal reply.</p>
@@ -720,7 +720,7 @@
   <div class="wrap">
     <div class="foot-grid">
       <div>
-        <p class="foot-brand"><svg viewBox="0 0 100 100" aria-hidden="true"><path d="M55 8.299 A42 42 0 1 1 45 8.299 L45 14.299 L55 14.299 Z" fill="none" stroke="currentColor" stroke-width="5.5" stroke-linejoin="miter"></path><g transform="translate(26 26) scale(.48)"><path d="M12 88 L12 12 L26 12 L50 44 L74 12 L88 12 L88 88 L74 88 L74 36 L50 68 L26 36 L26 88 Z" fill="currentColor"></path></g></svg><span>MANNIN <b>SYSTEMS</b></span></p>
+        <p class="foot-brand"><svg viewBox="-14 -14 128 128" aria-hidden="true"><path d="M55 8.299 A42 42 0 1 1 45 8.299 L45 14.299 L55 14.299 Z" fill="none" stroke="currentColor" stroke-width="5.5" stroke-linejoin="miter"/><g transform="translate(26 26) scale(.48)"><path d="M12 88 L12 12 L26 12 L50 44 L74 12 L88 12 L88 88 L74 88 L74 36 L50 68 L26 36 L26 88 Z" fill="currentColor"/></g><path d="M-12 50 H3 M97 50 H112 M50 97 V112 M50 -12 V8.3" fill="none" stroke="currentColor" stroke-width="2.2" stroke-dasharray="8 2.5 2 2.5"/></svg><span>MANNIN <b>SYSTEMS</b></span></p>
         <p>Production software for small manufacturers, built in the Isle of Man for firms across the island and the UK.</p>
       </div>
       <nav aria-label="Trades">
